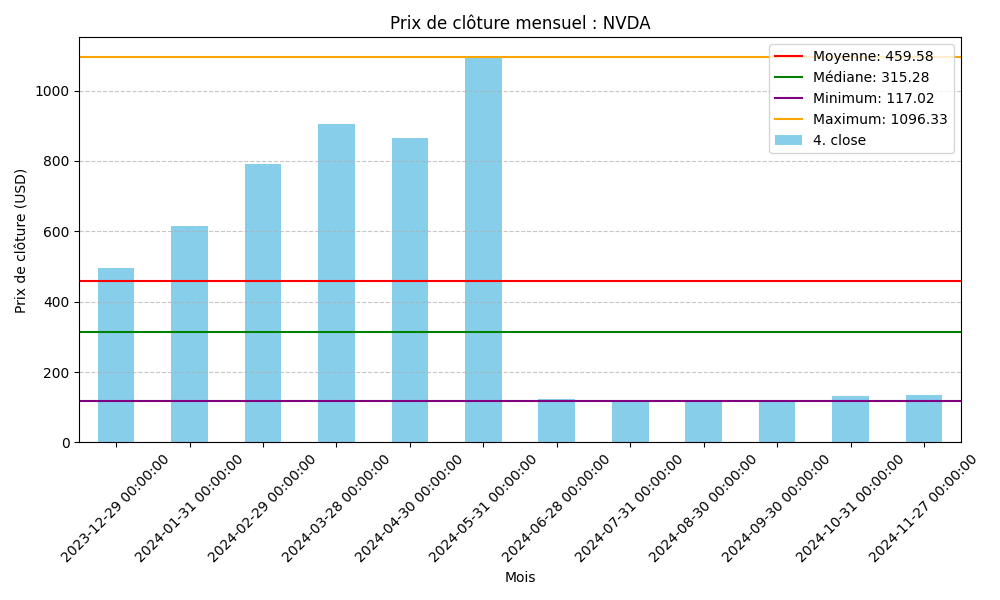
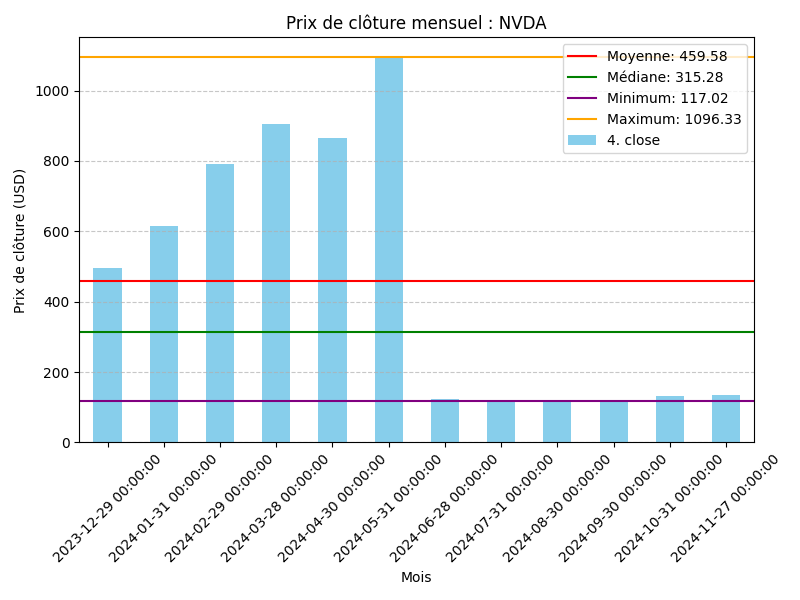
final

diff --git a/code_tp/appFlask.py b/code_tp/appFlask.py
@@ -78,7 +78,7 @@ def get_30days_graph(graphic_symbol):
     val_max = np.max(daily_data['4. close'])
 
     # Graphique à lignes (30 derniers jours)
-    plt.figure(figsize=(12, 6))
+    plt.figure(figsize=(8, 6))
     plt.plot(daily_data.index, daily_data["4. close"], marker="o", label="Clôture")
     plt.fill_between(daily_data.index, daily_data["3. low"], daily_data["2. high"], alpha=0.2,
                      label="Range (Low-High)")
@@ -121,7 +121,7 @@ def get_past_year_graph(graphic_symbol):
     val_max = np.max(monthly_data['4. close'])
 
     # Graphique à barres (Prix mensuel)
-    plt.figure(figsize=(10, 6))
+    plt.figure(figsize=(8, 6))
     monthly_data["4. close"].plot(kind="bar", color="skyblue")
     plt.title(f"Prix de clôture mensuel : {graphic_symbol}")
     plt.ylabel("Prix de clôture (USD)")

diff --git a/code_tp/clientTK.py b/code_tp/clientTK.py
@@ -12,7 +12,7 @@ class ClientTK(TKMT.ThemedTKinterFrame):
     def __init__(self):
         super().__init__("Stocks Manager", "park", "dark")
 
-        self.root.geometry("1680x720")
+        self.root.geometry("1280x720")
 
 
         # Styles TTK
@@ -209,15 +209,12 @@ class ClientTK(TKMT.ThemedTKinterFrame):
         vue_choisie = self.vue_choisie.current()
 
         self.canvas.delete("all")
-        print("Fonction called")
-        print(f"{vue_choisie=}")
 
         if vue_choisie == 0:
             self.current_graph = PhotoImage(file=f"graphics/{item_value[0]}_30_days.png")
         else:
             self.current_graph = PhotoImage(file=f"graphics/{item_value[0]}_past_year.png")
 
-        print(self.current_graph)
         self.canvas.create_image(0, 0, anchor=tk.NW, image=self.current_graph)
 
 
